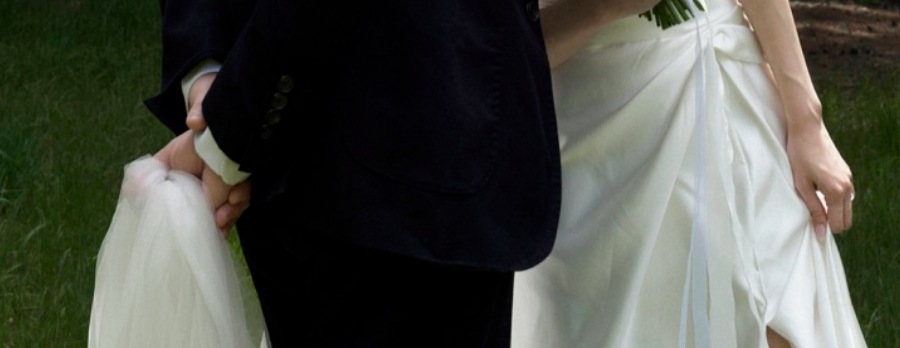
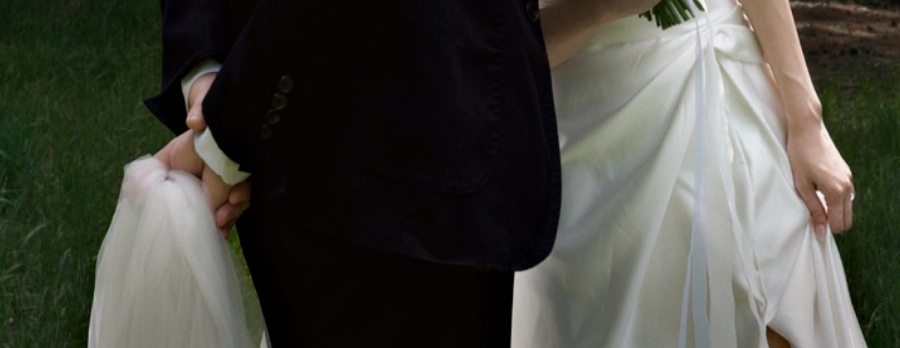
표지 글씨를 글자별 순차 드로잉으로 변경, 패치 색 보정 개선, 로드 시 화면 내 영역 즉시 노출
- tspan별 stagger 애니메이션으로 왼쪽부터 한 글자씩 획을 긋고 잉크가 차오름
- 패치 색보정을 저주파 보정 필드 방식으로 교체 (잔차 8.01 -> 2.94)
- 새로고침 시 이미 보이는 위치의 .fade 영역은 전환 없이 즉시 표시

Changed region(s): [[0.56, 0.6322, 0.9956, 1.0], [0.0622, 0.6609, 0.28, 1.0]]

diff --git a/index.html b/index.html
@@ -90,6 +90,8 @@ section { padding: 66px 30px; }
 /* 스크롤 페이드인 */
 .fade { opacity: 0; transform: translateY(14px); transition: opacity .8s ease, transform .8s ease; }
 .fade.show { opacity: 1; transform: none; }
+/* 새로고침 시 이미 화면 안에 있던 영역은 애니메이션 없이 바로 표시 */
+.fade.instant { transition: none; }
 
 /* 이미지 플레이스홀더 — 실제 사진으로 교체 시 <img>로 바꾸면 됨 */
 .ph {
@@ -138,18 +140,23 @@ section { padding: 66px 30px; }
 .cover-script-svg .script-word {
   font-family: 'Pinyon Script', cursive;
   font-size: 178px;
+}
+/* 글자 하나씩 왼쪽 → 오른쪽으로 획이 그어지고, 곧바로 잉크가 차오름 */
+.cover-script-svg .script-word tspan {
   fill: #FFFDF8; fill-opacity: 0;
-  stroke: #FFFDF8; stroke-width: 1.5;
+  stroke: #FFFDF8; stroke-width: 1.4;
   stroke-linecap: round; stroke-linejoin: round;
-  stroke-dasharray: 900 900;
-  stroke-dashoffset: 900;
-  animation: cover-draw 3.4s ease-in-out .5s forwards,
-             cover-ink 1.1s ease 3.2s forwards;
+  stroke-dasharray: 260 260;
+  stroke-dashoffset: 260;
+  animation: cover-draw .42s ease-in-out both,
+             cover-ink .3s ease both;
+  animation-delay: calc(.45s + var(--i) * .21s),
+                   calc(.45s + var(--i) * .21s + .3s);
 }
 @keyframes cover-draw { to { stroke-dashoffset: 0; } }
 @keyframes cover-ink { to { fill-opacity: 1; } }
 @media (prefers-reduced-motion: reduce) {
-  .cover-script-svg .script-word {
+  .cover-script-svg .script-word tspan {
     animation: none; stroke-dashoffset: 0; fill-opacity: 1;
   }
 }
@@ -427,7 +434,7 @@ footer .foot-sign {
       <img class="cover-img" src="images/cover.jpg" alt="YOU'RE INVITED TO Our wedding — 2026.10.31 SAT 12:00 PM · CONRAD SEOUL, GRAND BALLROOM">
       <img class="cover-script-patch" src="images/cover-script-patch.jpg" alt="" aria-hidden="true">
       <svg class="cover-script-svg" viewBox="0 0 900 348" aria-hidden="true">
-        <text class="script-word" x="450" y="172" text-anchor="middle">Our wedding</text>
+        <text class="script-word" x="450" y="172" text-anchor="middle"><tspan style="--i:0">O</tspan><tspan style="--i:1">u</tspan><tspan style="--i:2">r</tspan><tspan style="--i:3"> </tspan><tspan style="--i:3">w</tspan><tspan style="--i:4">e</tspan><tspan style="--i:5">d</tspan><tspan style="--i:6">d</tspan><tspan style="--i:7">i</tspan><tspan style="--i:8">n</tspan><tspan style="--i:9">g</tspan></text>
       </svg>
     </div>
   </section>
@@ -764,7 +771,19 @@ if (KAKAO_MAP_KEY) {
 const io = new IntersectionObserver((entries) => {
   entries.forEach(e => { if (e.isIntersecting) { e.target.classList.add('show'); io.unobserve(e.target); } });
 }, { threshold: 0.15 });
-document.querySelectorAll('.fade:not(.fade-onscroll)').forEach(el => io.observe(el));
+document.querySelectorAll('.fade:not(.fade-onscroll)').forEach(el => {
+  // 로드 시점에 이미 보이는 위치면(새로고침·앵커 이동 등) 페이드 없이 즉시 노출
+  const r = el.getBoundingClientRect();
+  if (r.top < window.innerHeight && r.bottom > 0) {
+    el.classList.add('instant', 'show');
+  } else {
+    io.observe(el);
+  }
+});
+// 첫 페인트 후 instant 해제 — 이후 등장하는 요소는 정상적으로 페이드
+requestAnimationFrame(() => requestAnimationFrame(() => {
+  document.querySelectorAll('.fade.instant').forEach(el => el.classList.remove('instant'));
+}));
 
 /* 커버 영역에 겹쳐 있는 요소(Save the Date)는 스크롤을 시작해야 나타남 */
 const onScrollFades = document.querySelectorAll('.fade-onscroll');
@@ -776,6 +795,8 @@ if (onScrollFades.length) {
     }
   };
   window.addEventListener('scroll', revealOnScroll, { passive: true });
+  // 이미 스크롤된 위치에서 로드됐다면 페이드 없이 즉시 노출
+  if (window.scrollY > 60) onScrollFades.forEach(el => el.classList.add('instant'));
   revealOnScroll();
 }
 
